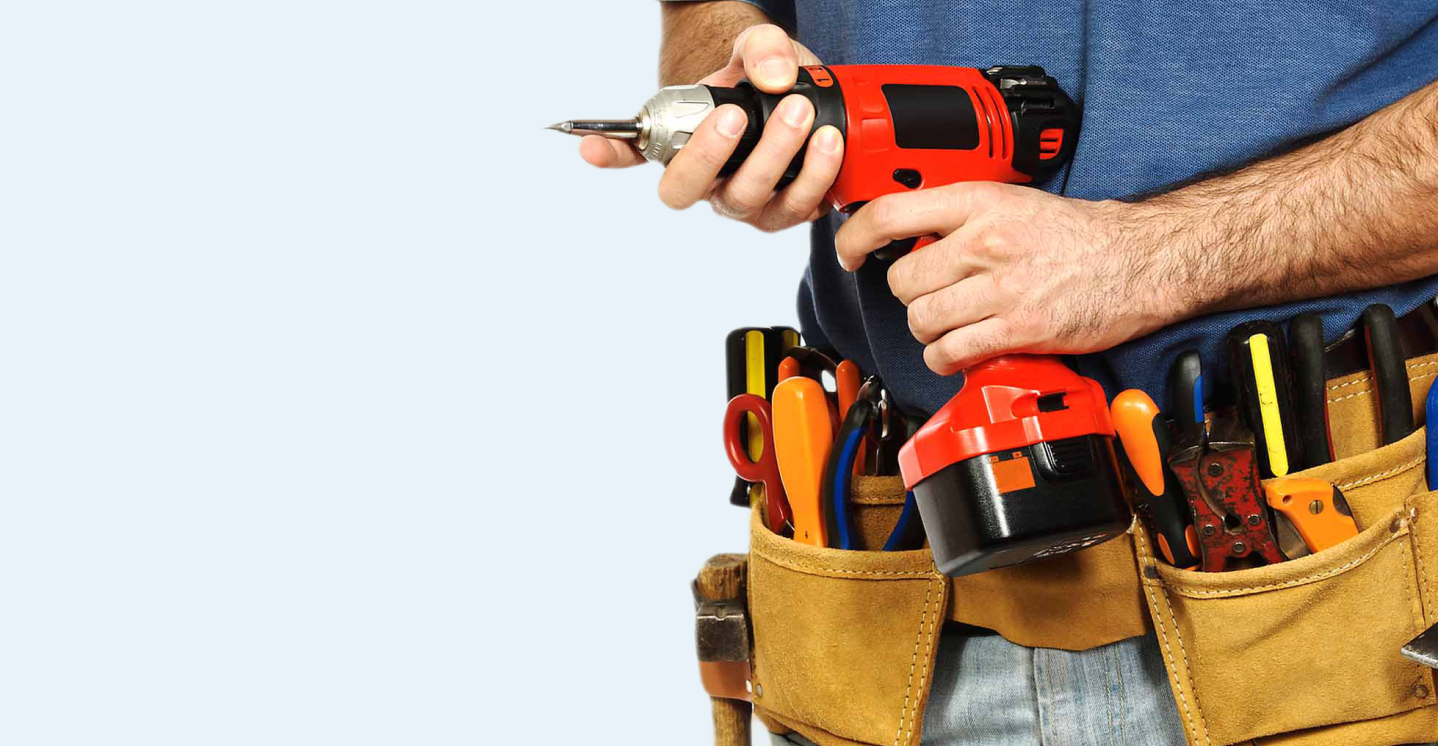
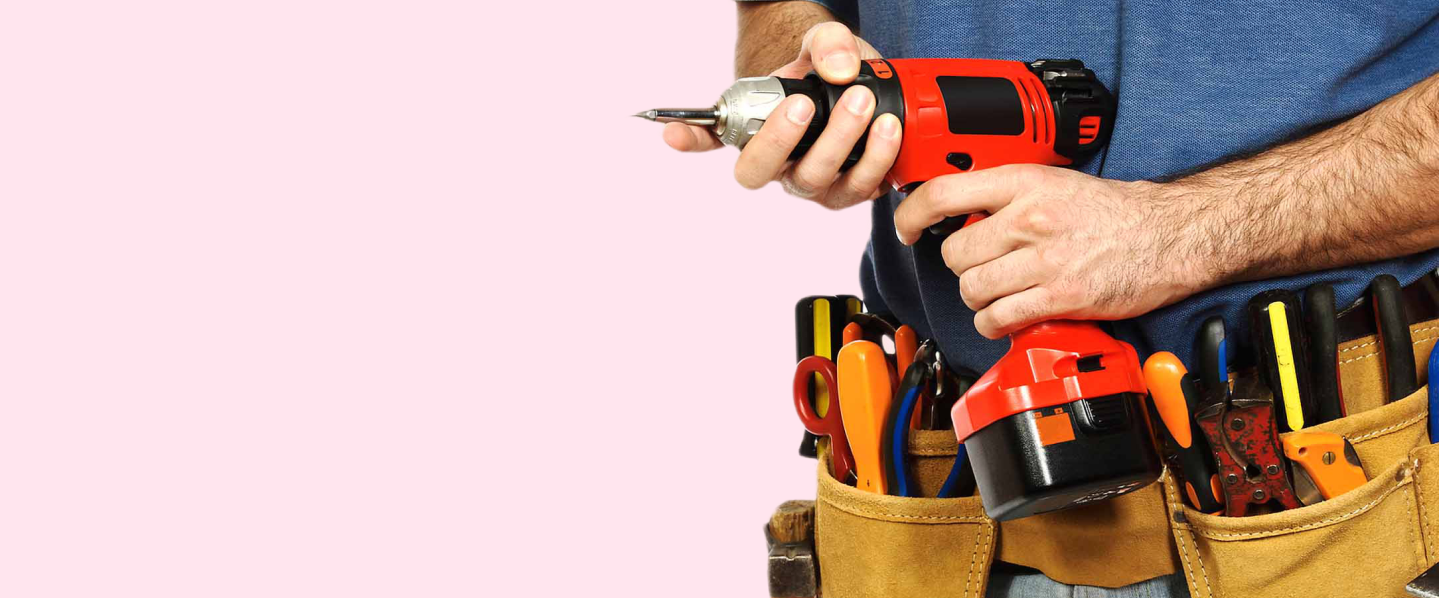
commit

diff --git a/assets/css/_presentation.scss b/assets/css/_presentation.scss
@@ -9,24 +9,22 @@
     font-size: 50px;
     color: $heading-color;
   }
-  p{
+  p {
     margin-bottom: 1.5rem;
   }
-  .button{
+  .button {
     font-size: 18px;
     font-weight: 600;
-    border: 1px solid #FF0057;
+    border: 1px solid #ff0057;
     padding: 10px 30px;
     font-family: $inter;
     border-radius: 5px;
     font-weight: 500;
     color: $heading-color;
-    &:hover{
-      background: #FF0057;
-      transition: .5s;
+    &:hover {
+      background: #ff0057;
+      transition: 0.5s;
       color: #fff;
     }
   }
 }
-
-

diff --git a/assets/css/_variables.scss b/assets/css/_variables.scss
@@ -3,5 +3,5 @@ $secoundary-color:#E9EE09;
 $text-color:gray;
 $heading-color:#212121;
 $inter:'Inter', sans-serif;
-$bg:#e8f2f8;
+$bg:#ff3379;
 $link:rgb(19, 82, 199);

diff --git a/assets/css/_portfolio.scss b/assets/css/_portfolio.scss
@@ -83,7 +83,7 @@ figcaption span {
 }
 
 .portfolio-bg {
-  background: #e8f2f8;
+  background: #ff3379;
 }
 .portfolio {
   background: #e8f2f8;
